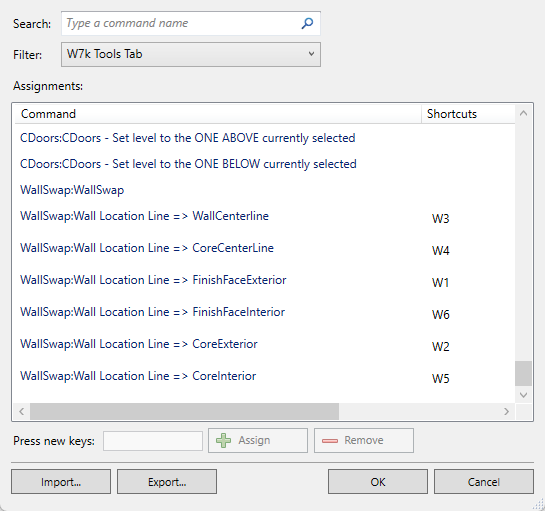
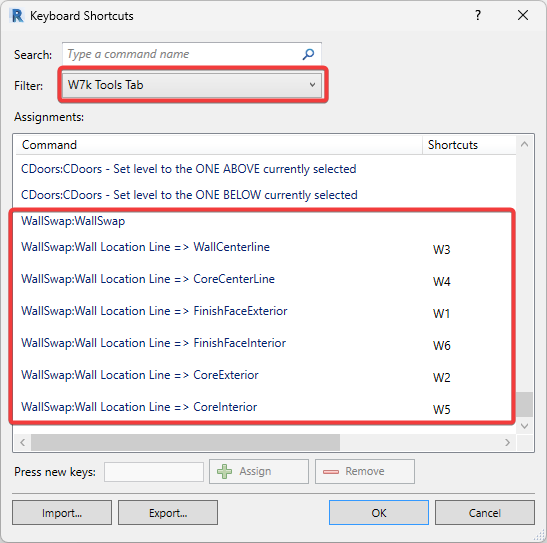
update of wallswap
update of wallswap

diff --git a/w7kTools/WallSwaper.md b/w7kTools/WallSwaper.md
@@ -16,6 +16,19 @@ The tool is super easy to use. Simply set your preferred shortcuts combination i
 
 This tool was created for every Revit User. It easily saves them countless hours of work each year allowing users to work faster with one less distraction. 
 
+### How to set up the tool? 
+
+Firstly you need to go to "File" and "Options".   
+![File](/images/Tools/WallSwap/File.png)
+  
+Than go to the User Interface and Keyboard Shortcuts : Customise   
+  
+![Options](/images/Tools/WallSwap/Options.png)
+  
+After that in Keyboard Shortcuts filter W7k Tools Tab. You will have to just set up the shortcuts.
+  
+![Keyboard Shortcuts](/images/Tools/WallSwap/KeyboardShortcuts.png)
+  
 ### Shortcuts we are using
   
 | <b>Icon       </b> | <b>Location Line</b> | <b>         Shortcut</b> |
@@ -26,7 +39,7 @@ This tool was created for every Revit User. It easily saves them countless hours
 |![Core Centerline](/images/Tools/WallSwap/WallSwapCC.png)   | Core Centerline | W4 |
 |![Core Face: Interior](/images/Tools/WallSwap/WallSwapCI.png)   | Core Face: Interior | W5 |
 |![Finish Face: Interior](/images/Tools/WallSwap/WallSwapWI.png)   | Finish Face: Interior | W6 |
-
+  
 ## Video
 
 <div>
